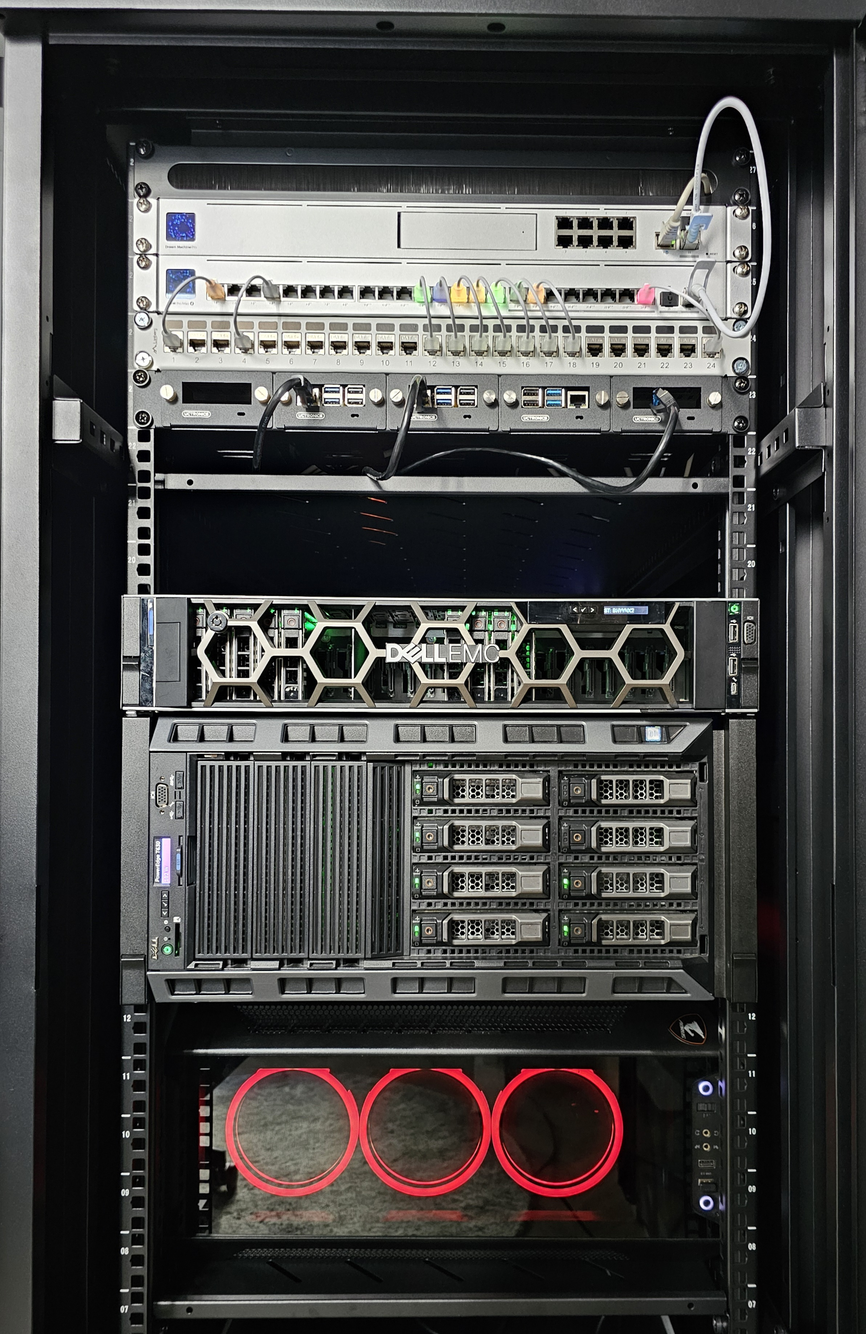
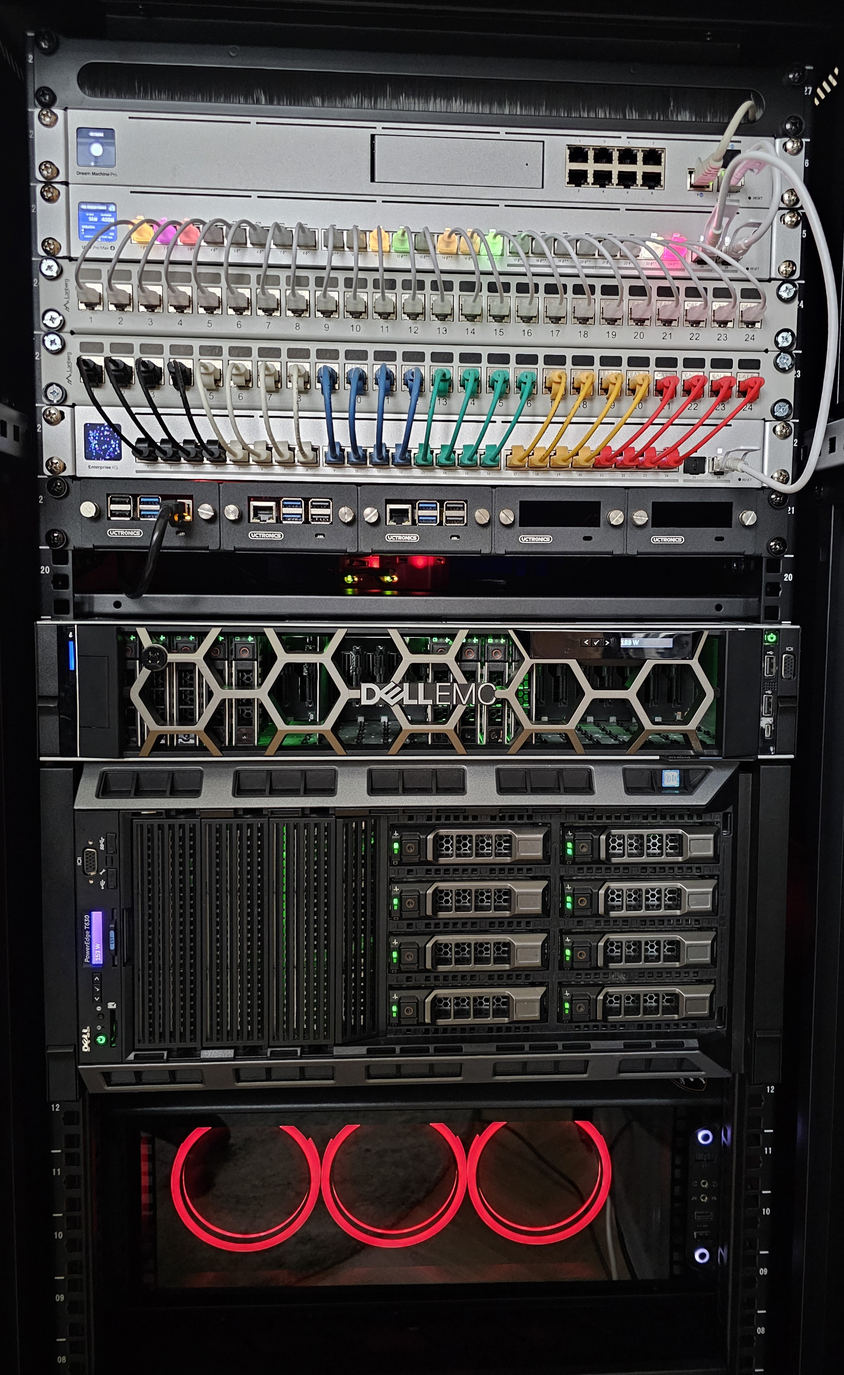
docs(readme): updates hardware list

diff --git a/README.md b/README.md
@@ -52,9 +52,11 @@ This is a mono repository for my home infrastructure and Kubernetes cluster. I t
     * GPU: 2x MSI GeForce RTX 3090 Ventus OC
 * [Unifi Dream Machine Pro](https://eu.store.ui.com/eu/en/products/udm-pro)
 * [Unifi USW Pro Max POE](https://eu.store.ui.com/eu/en/category/switching-professional-max/products/usw-pro-max-24-poe)
+* [Unifi EnterpriseXG 24 (Gen1)](https://eu.store.ui.com/eu/en/products/usw-enterprisexg-24)
 * 2x Raspberry Pi 5 16Gb
 * Raspberry pPi 4b 8Gb
 * Raspberry Pi Zero
+* GMKTec Nucbox G9
 
 ## ⛵ Kubernetes
 
